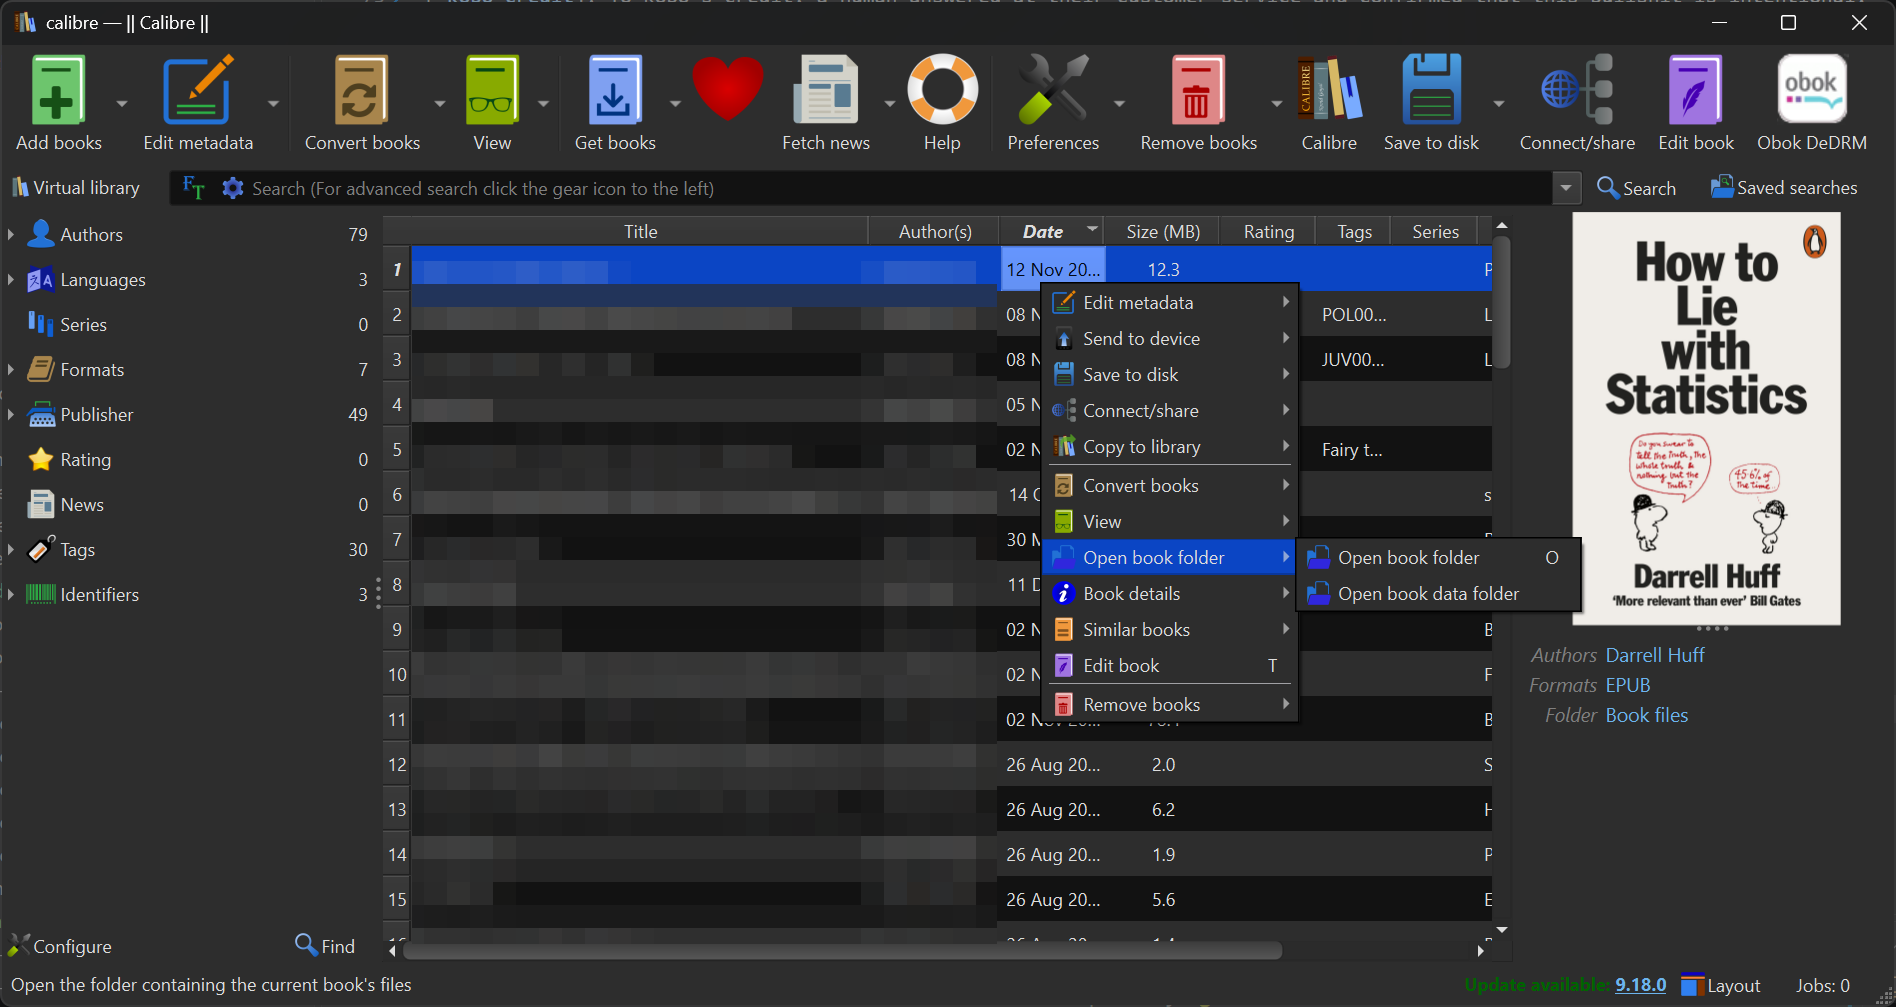
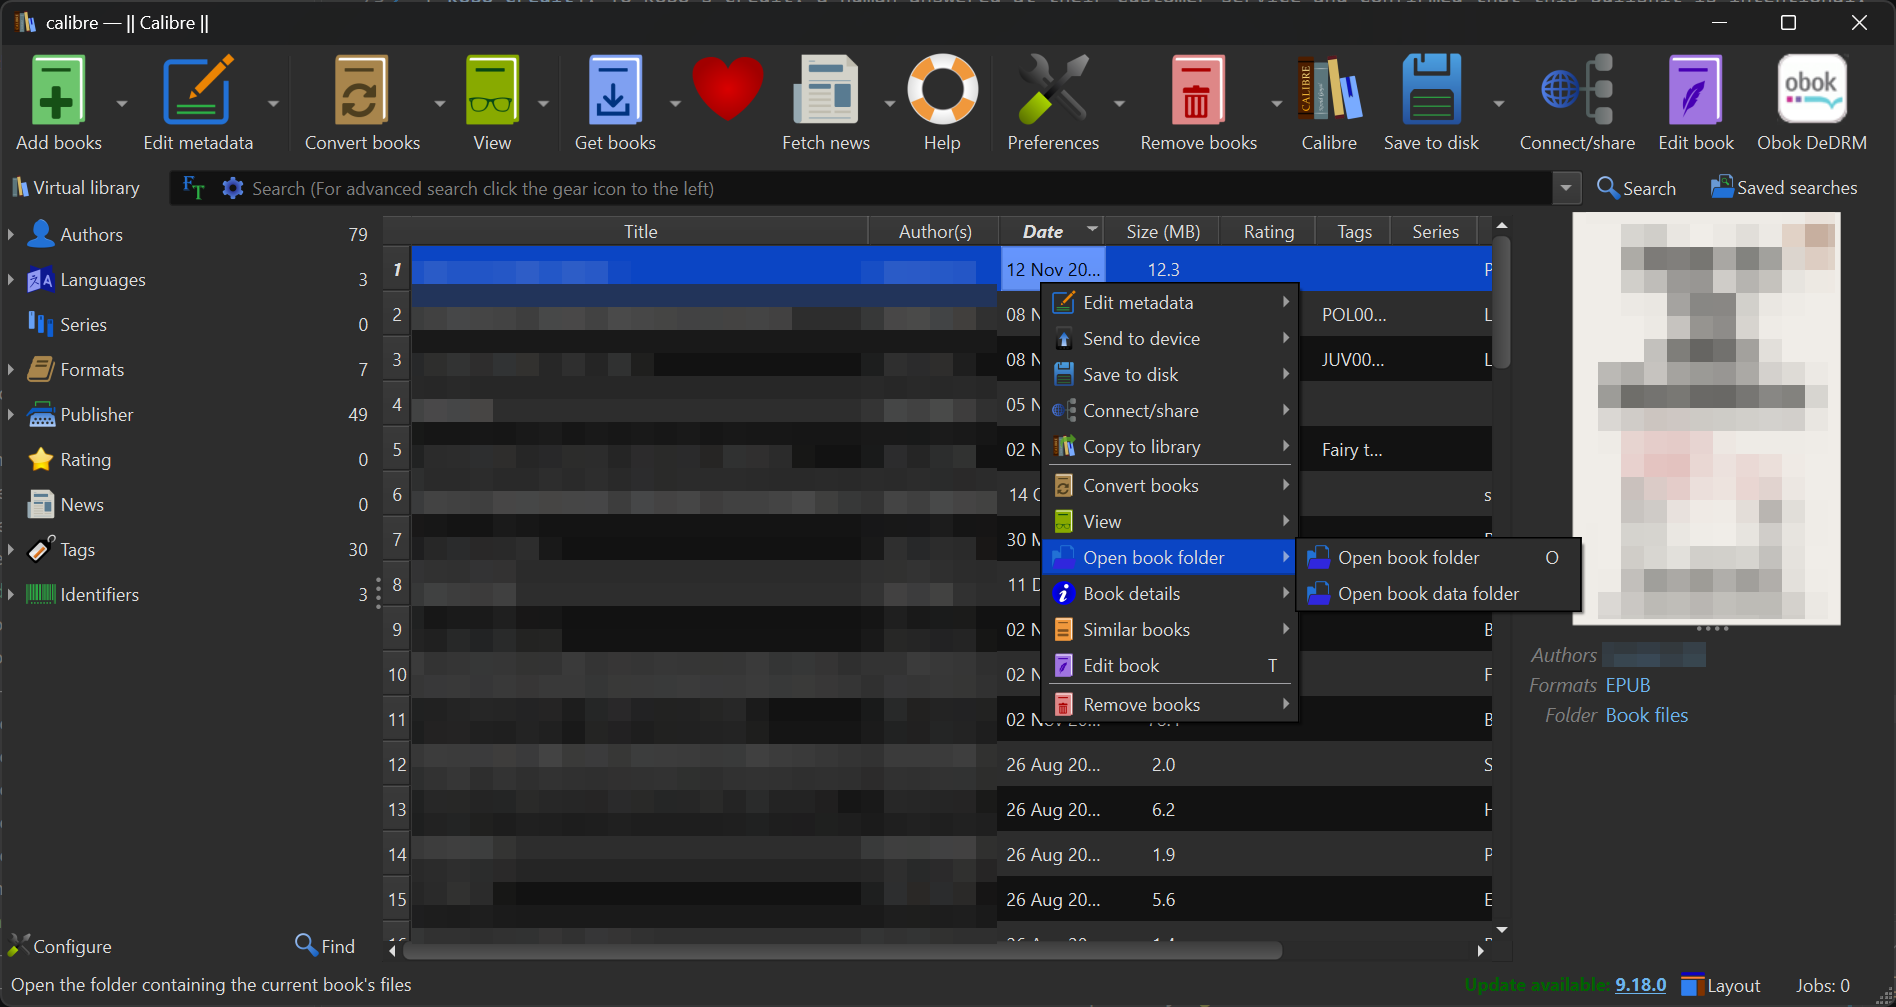
Draft Kobo DRM

Changed region(s): [[0.8402, 0.2155, 0.9647, 0.6773]]

diff --git a/_drafts/drm-kobo.md b/_drafts/drm-kobo.md
@@ -58,11 +58,11 @@ You should see an *Obok DeDrm* button on the menu.
 
 ## Kobo
 
-Some books on Kobo are DRM free, but most of them use Adobe's DRM.
-The book description on the store mentions whether the ebook is protected by DRM.
+Some ebooks on Kobo are DRM free, but most of them use Adobe's DRM.
+The book details on the store mention whether the ebook is protected by DRM.
 ![](/assets/2026/kobo-drm/book-description.png)
 
-After purchasing the book, go to *My Account > My Books*.
+After purchasing the ebook, go to *My Account > My Books*.
 
 ![](/assets/2026/kobo-drm/kobo-website-1.png)
 
@@ -83,10 +83,10 @@ Download the *Adobe DRM EPUB* option instead.
 You should have an acsm file from Kobo's website.
 This is not yet the encrypted epub.
 Open it with Adobe Digital Editions (the file extension should be associated automatically).
-Digital Editions should download the book and show it in the library.
+Digital Editions should download the book and show it in its library.
 
 Go to the folder with Digital Editions' data.
-On Windows this is in *Documents > My Digital Editions*.
+On Windows this is *Documents > My Digital Editions*.
 You should see all the encrypted epubs from your library.
 
 ![](/assets/2026/kobo-drm/digital-editions-folder.png)
@@ -97,7 +97,7 @@ As these files are encrypted, you will get an error if you try to open them with
 
 Open Calibre, click on *Add books*, and select the encrypted epub from Digital Editions' folder.
 You should now see the ebook in you Calibre Library.
-Right click on the book, then *Open book folder > Open book folder*.
+Right click on the ebook, then *Open book folder > Open book folder*.
 
 ![](/assets/2026/kobo-drm/calibre-6.png)
 
